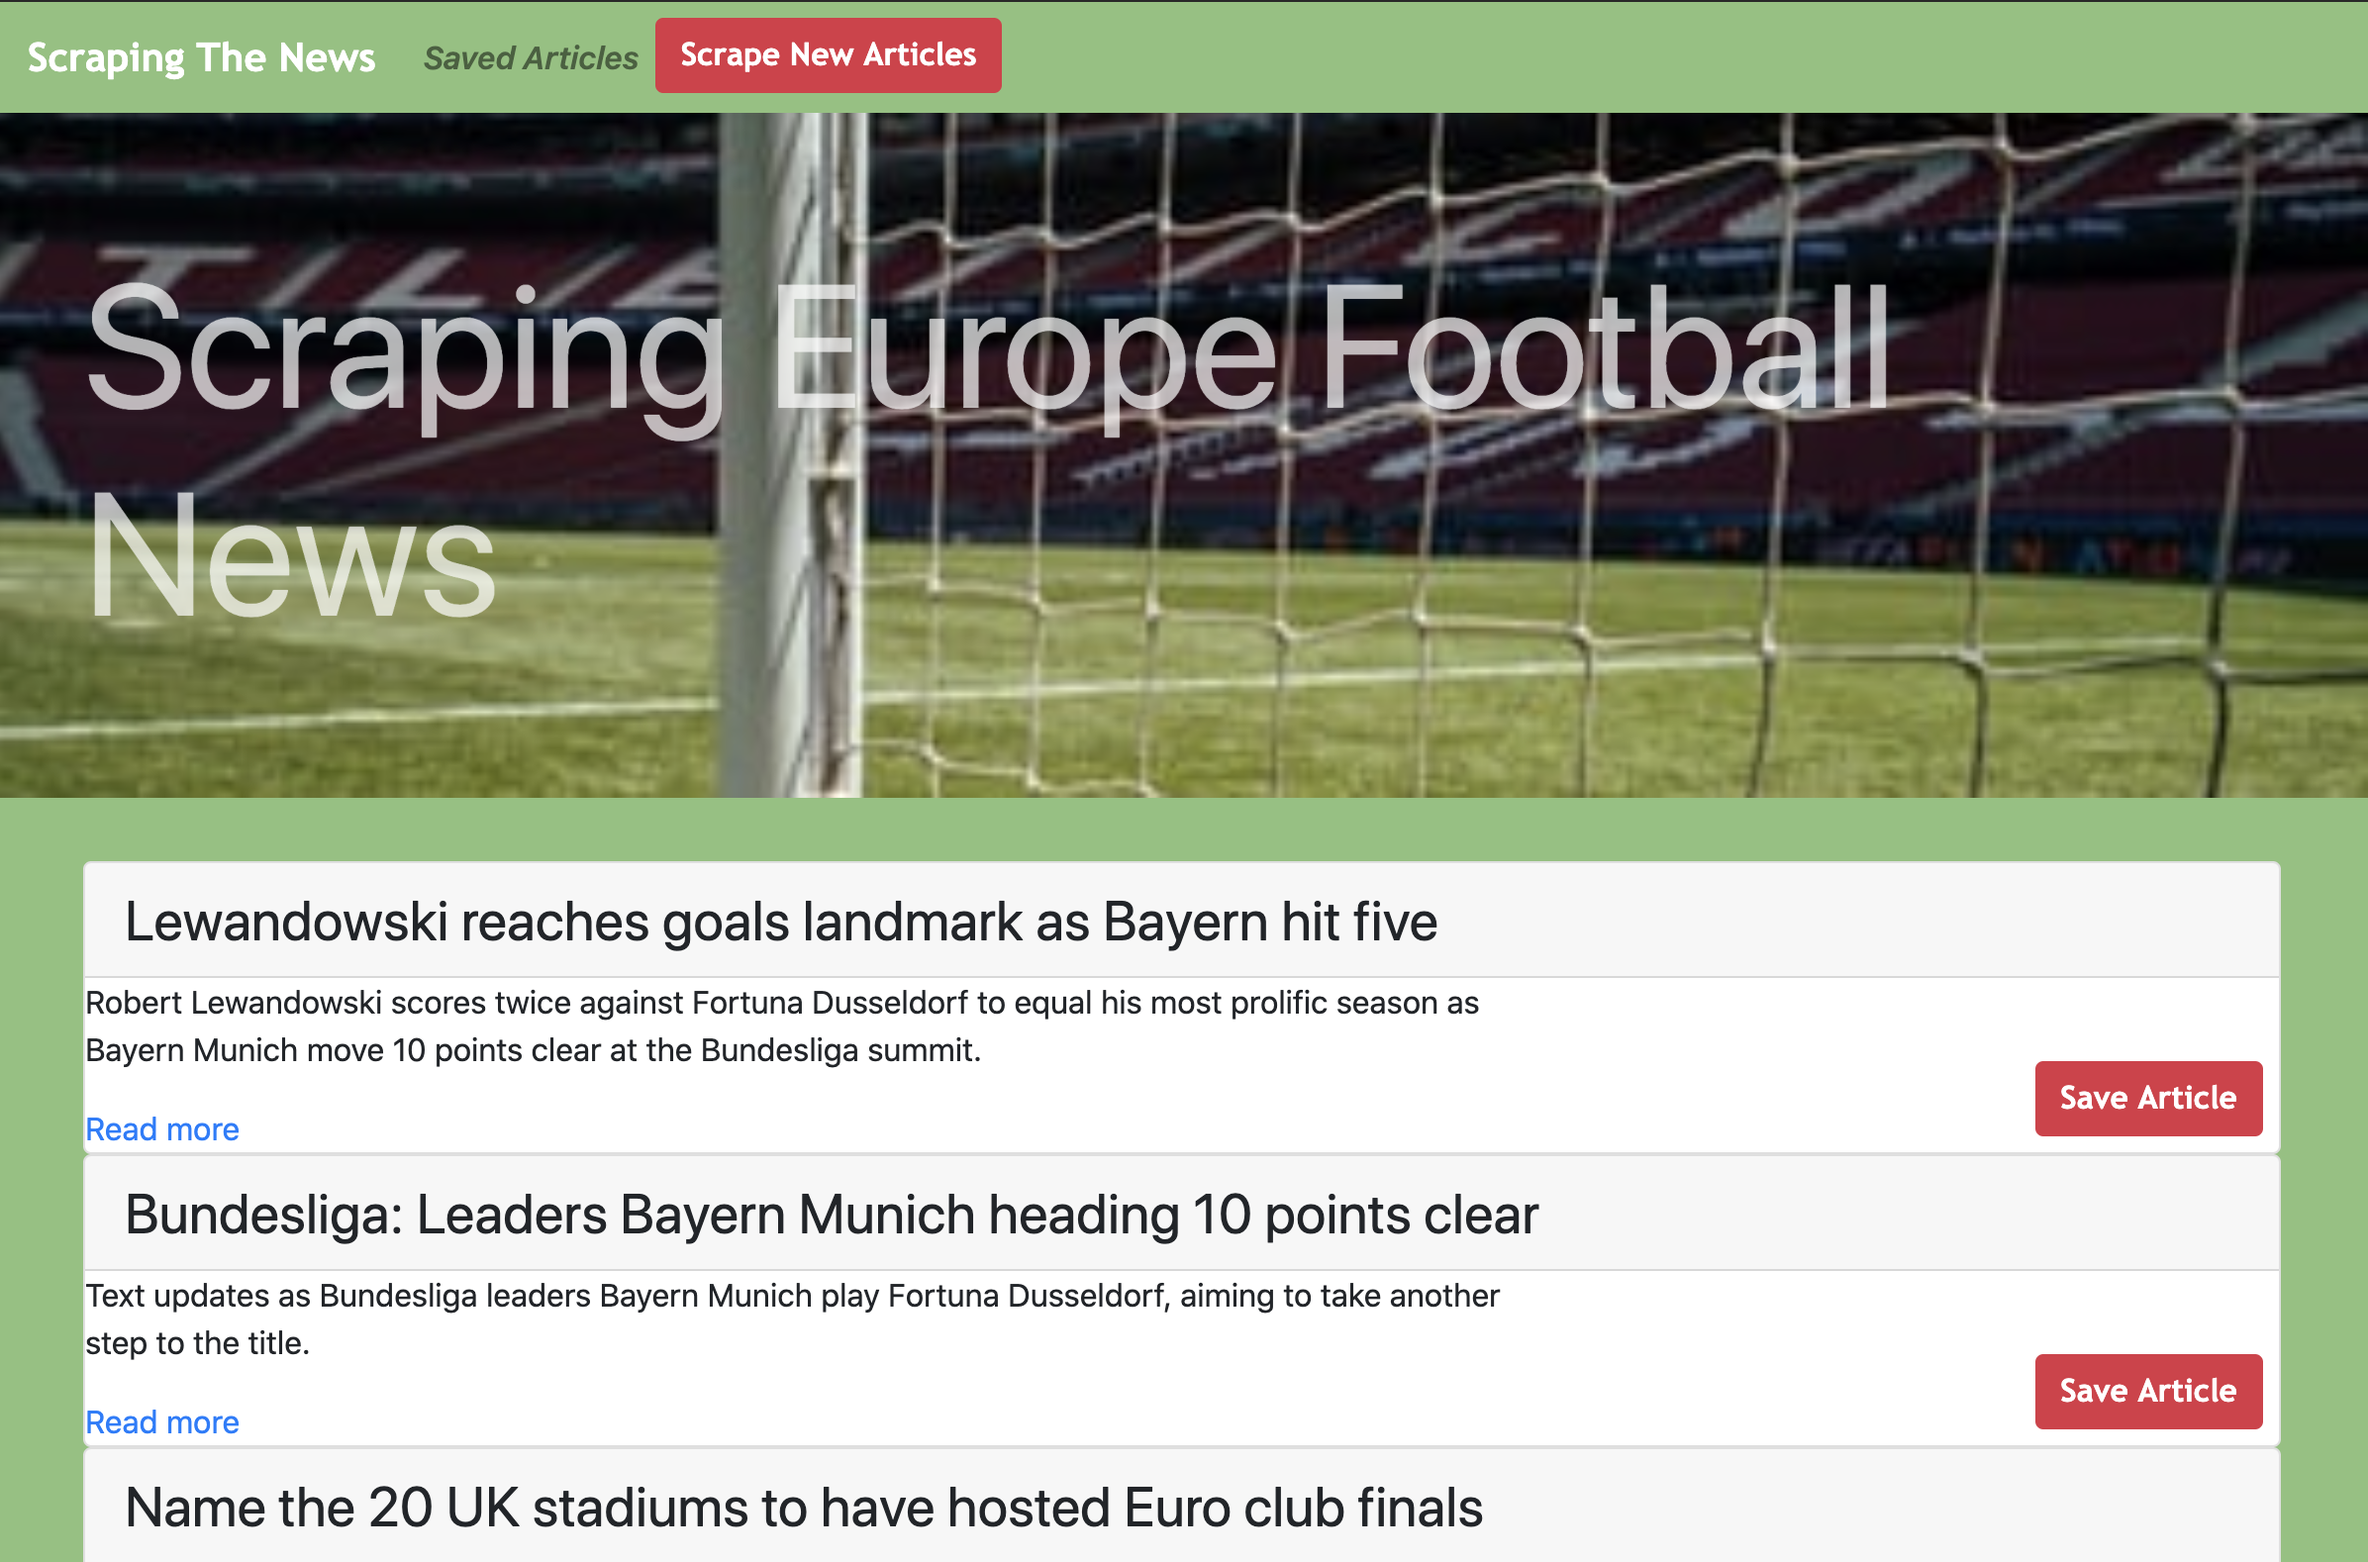
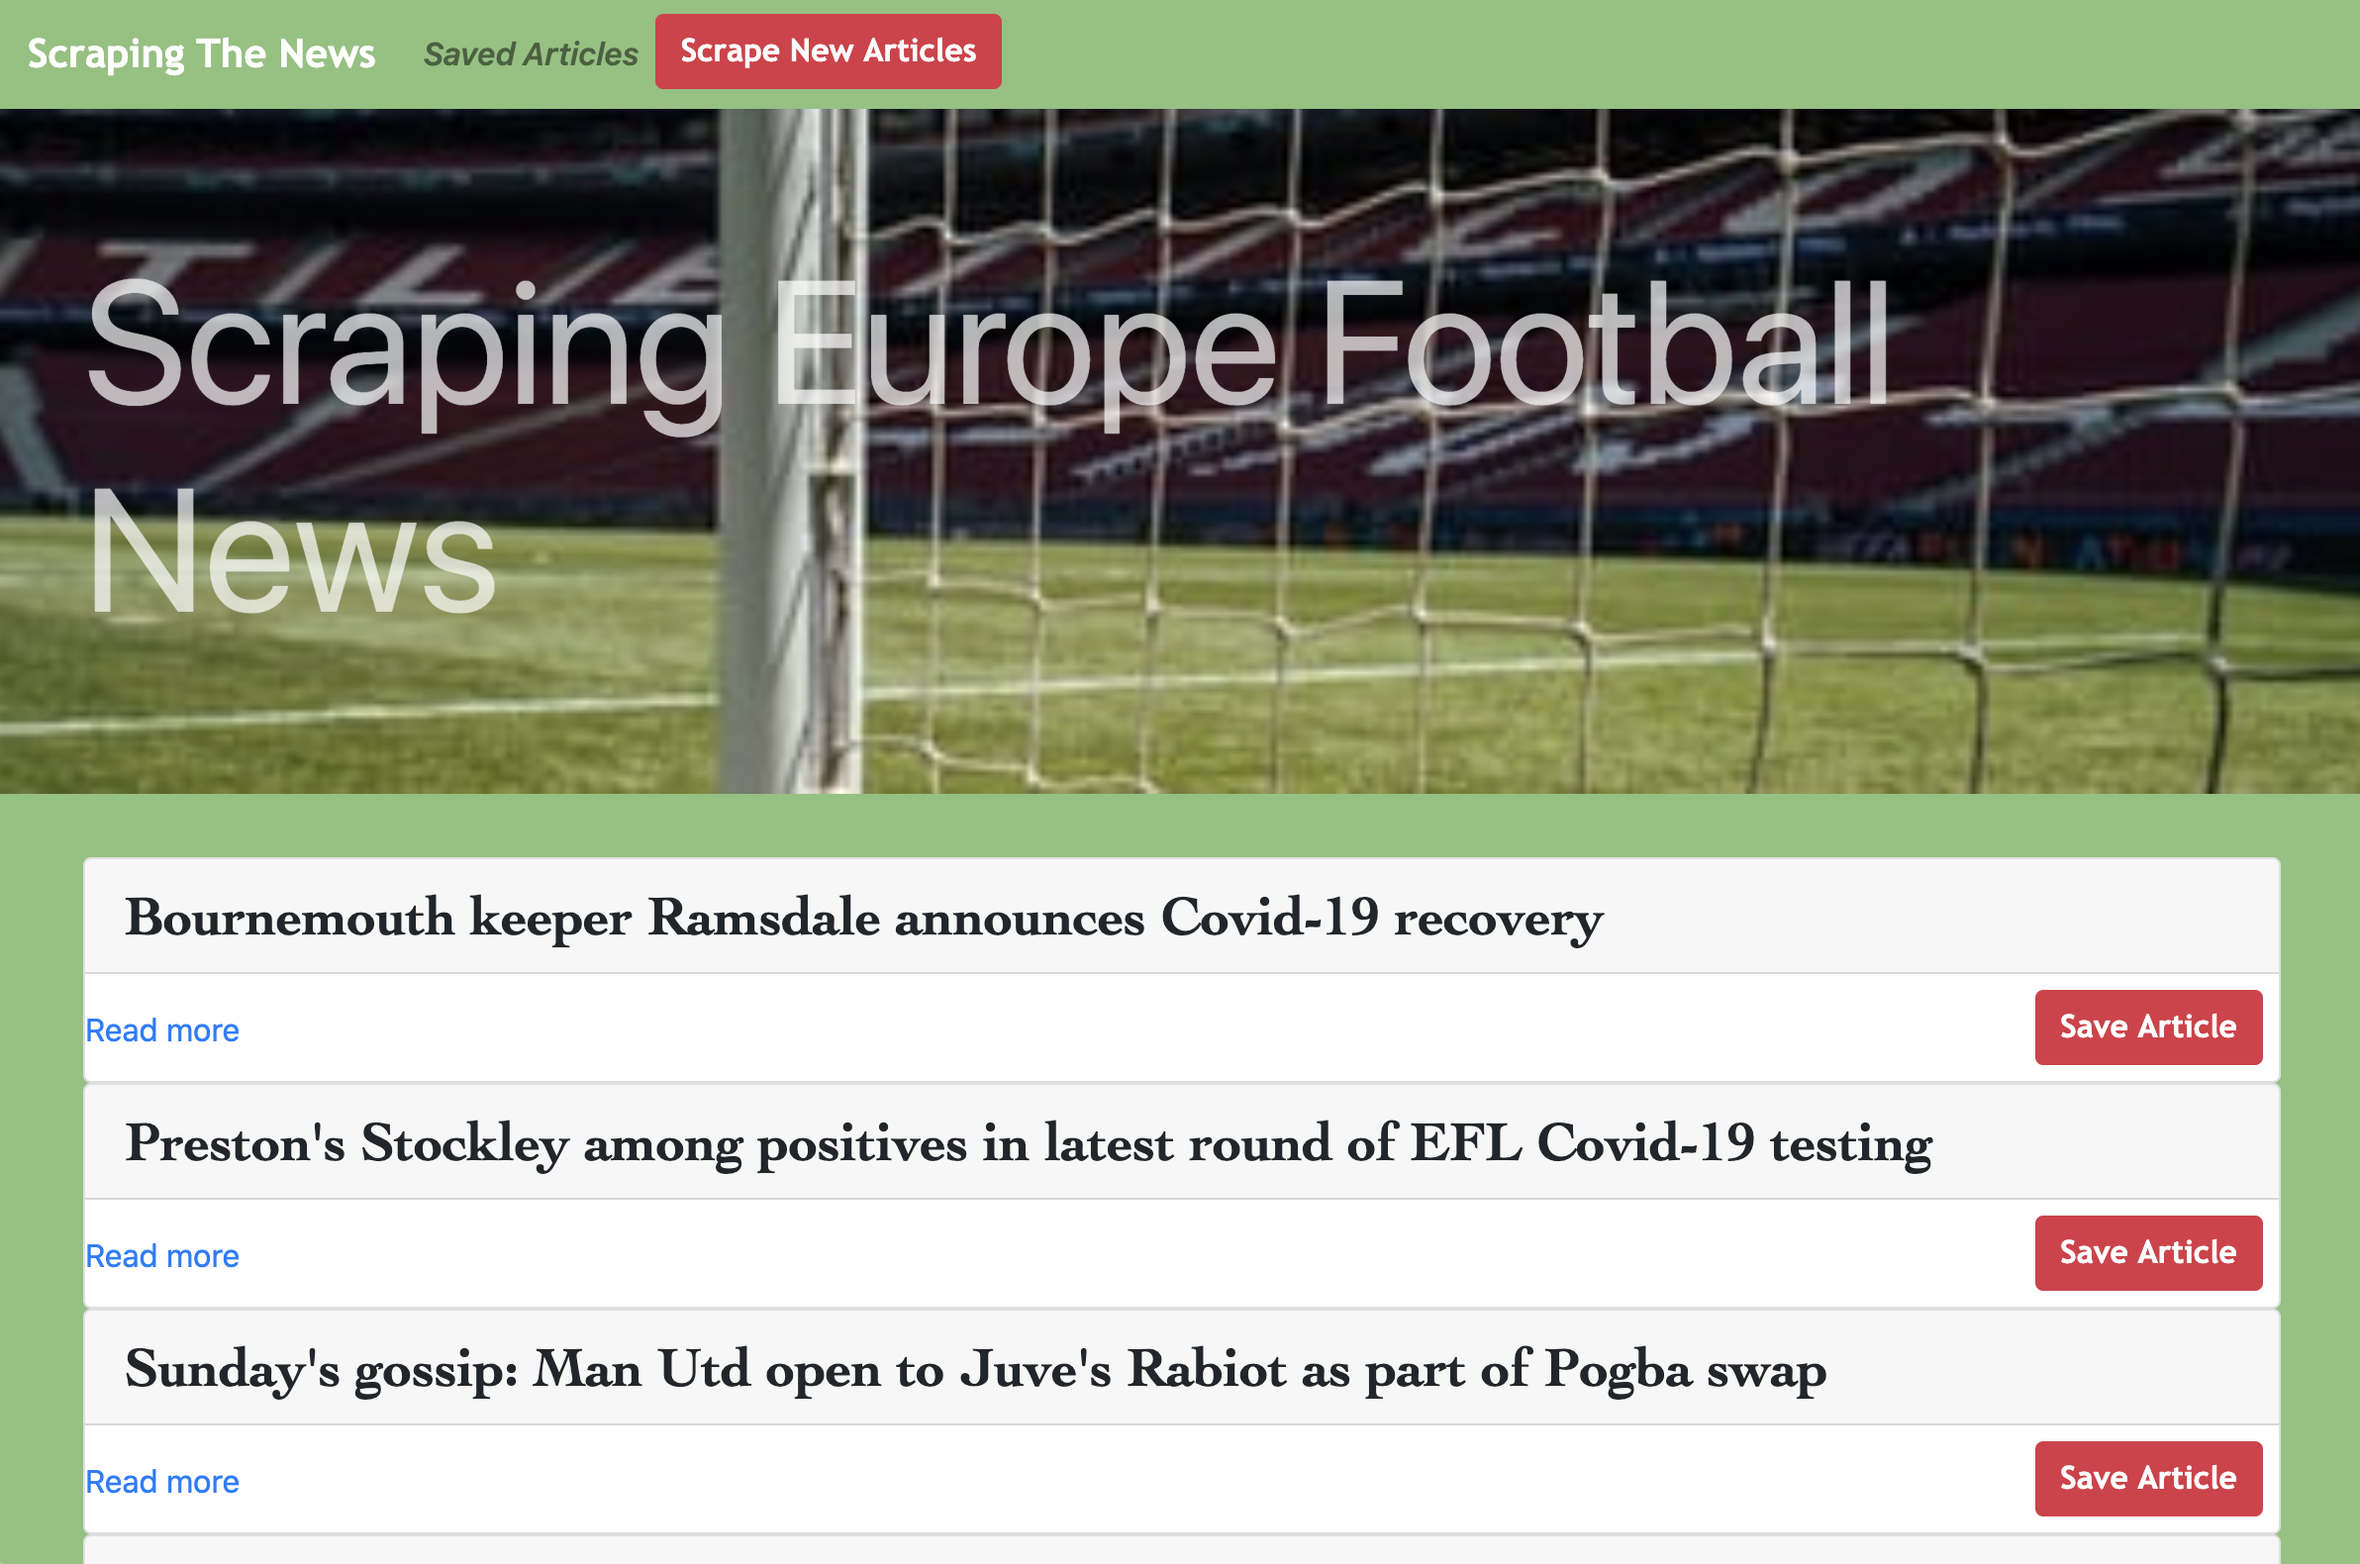
edited fonts/main

Changed region(s): [[0.0, 0.0, 1.0, 0.6831], [0.031, 0.5589, 0.9933, 1.0], [0.0, 0.1553, 0.3104, 0.4037]]

diff --git a/public/css/style.css b/public/css/style.css
@@ -27,7 +27,13 @@ body {
 
 h1 {
     font-family: -apple-system, BlinkMacSystemFont, 'Segoe UI', Roboto, Oxygen, Ubuntu, Cantarell, 'Open Sans', 'Helvetica Neue', sans-serif;
+    font-weight: 700;
     opacity: .7;
+}
+
+.card-header {
+    font-family: Cambria, Cochin, Georgia, Times, 'Times New Roman', serif;
+    font-weight: 700;
 }
 
 .note-content {
